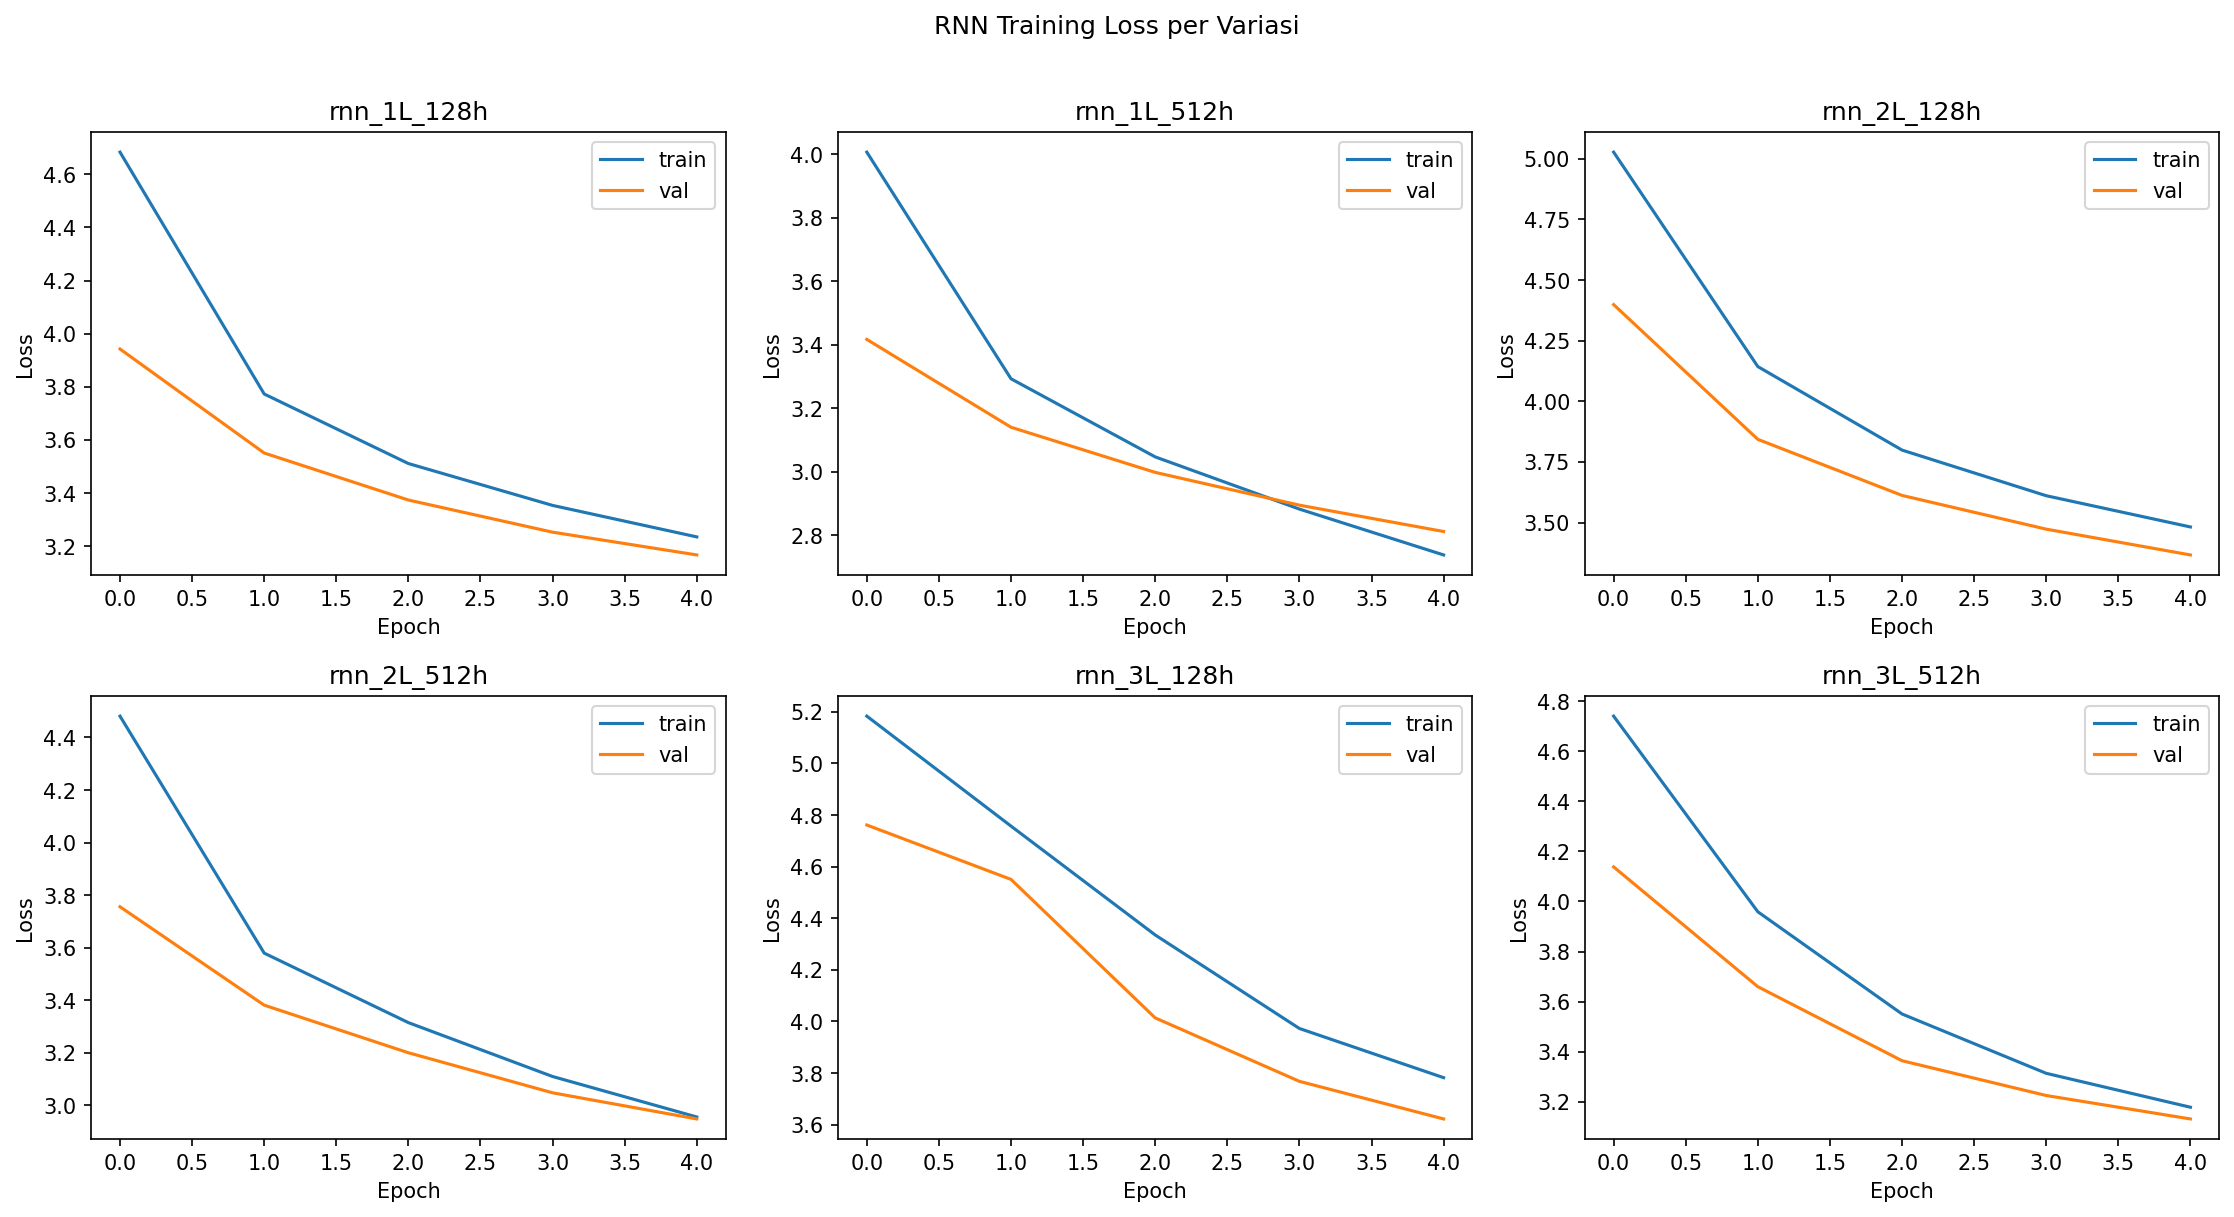
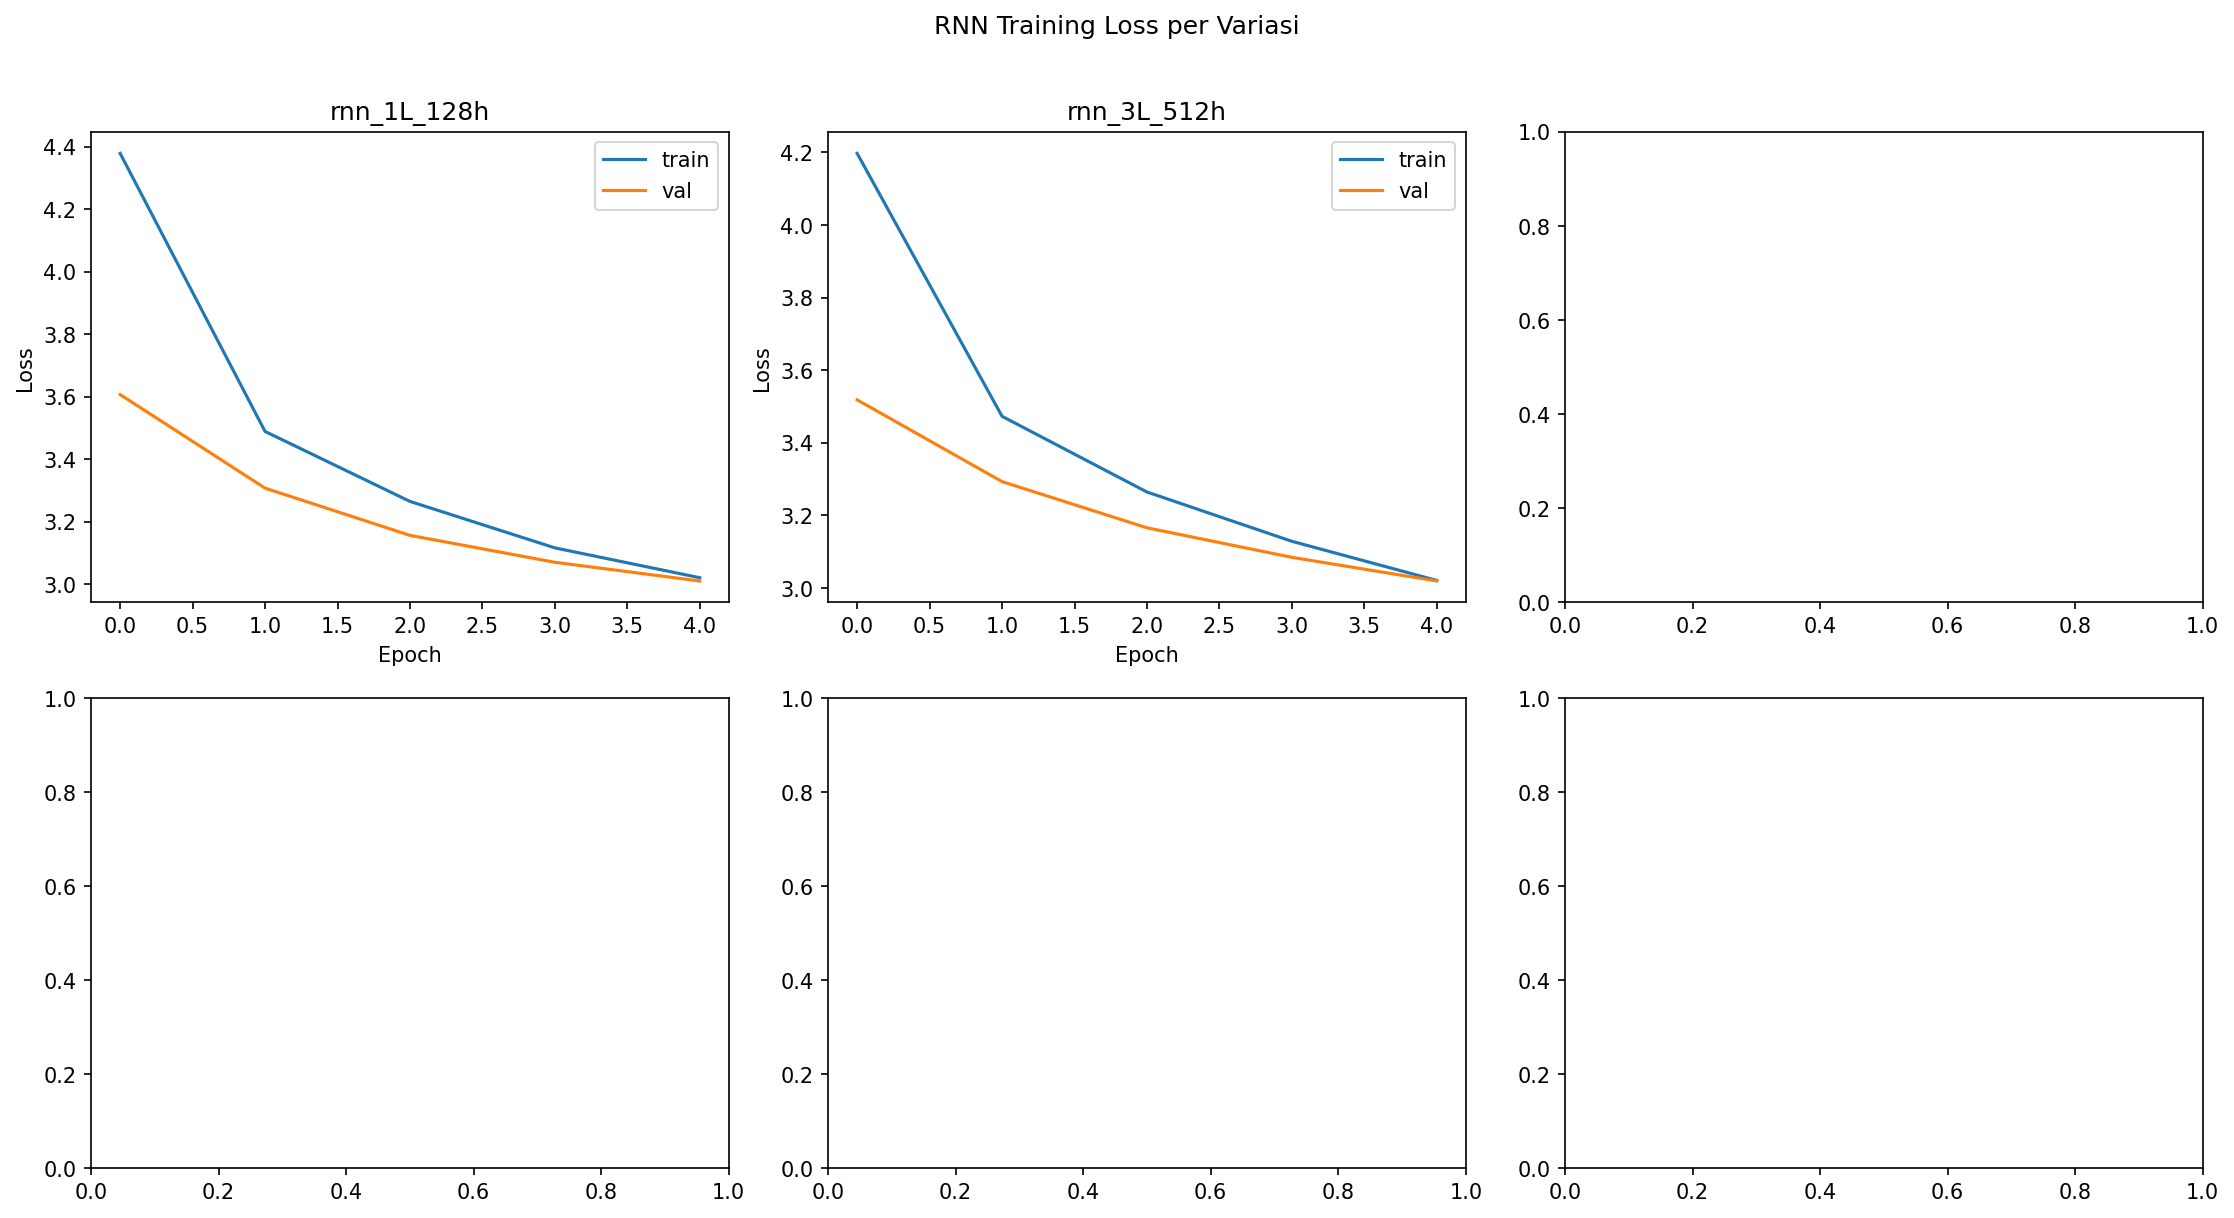
fix: rnn default param and notebook 3

diff --git a/src/wajib/rnn/RNN.py b/src/wajib/rnn/RNN.py
@@ -83,7 +83,7 @@ class RNNScratch:
         return np.array(outputs) if return_sequences else states[-1][0]
 
 
-def buildRNNKeras(vocab_size, embed_dim, hidden_dim, num_rnn_layers, cnn_feature_dim, rnn_type='lstm'):
+def buildRNNKeras(vocab_size, embed_dim, hidden_dim, num_rnn_layers, cnn_feature_dim, rnn_type='rnn'):
     cnn_input   = keras.Input(shape=(cnn_feature_dim,), name='cnn_feature')
     token_input = keras.Input(shape=(None,), dtype='int32', name='token_ids')
 
@@ -126,12 +126,9 @@ def trainRNNDataset(image_features, captions_dict, vocab, max_len):
             
             input_tokens = [vocab['<start>']] + token_ids[:-1]
             
-            target_tokens = token_ids
-            target_with_cnn_offset = [0] + target_tokens
-
             X_cnn.append(feat)
             X_tokens.append(padSequences([input_tokens], max_len)[0])
-            Y.append(padSequences([target_with_cnn_offset], max_len + 1)[0]) # Sekarang 31
+            Y.append(padSequences([[vocab['<start>']] + token_ids], max_len + 1)[0])
 
     return np.array(X_cnn), np.array(X_tokens), np.array(Y)
 